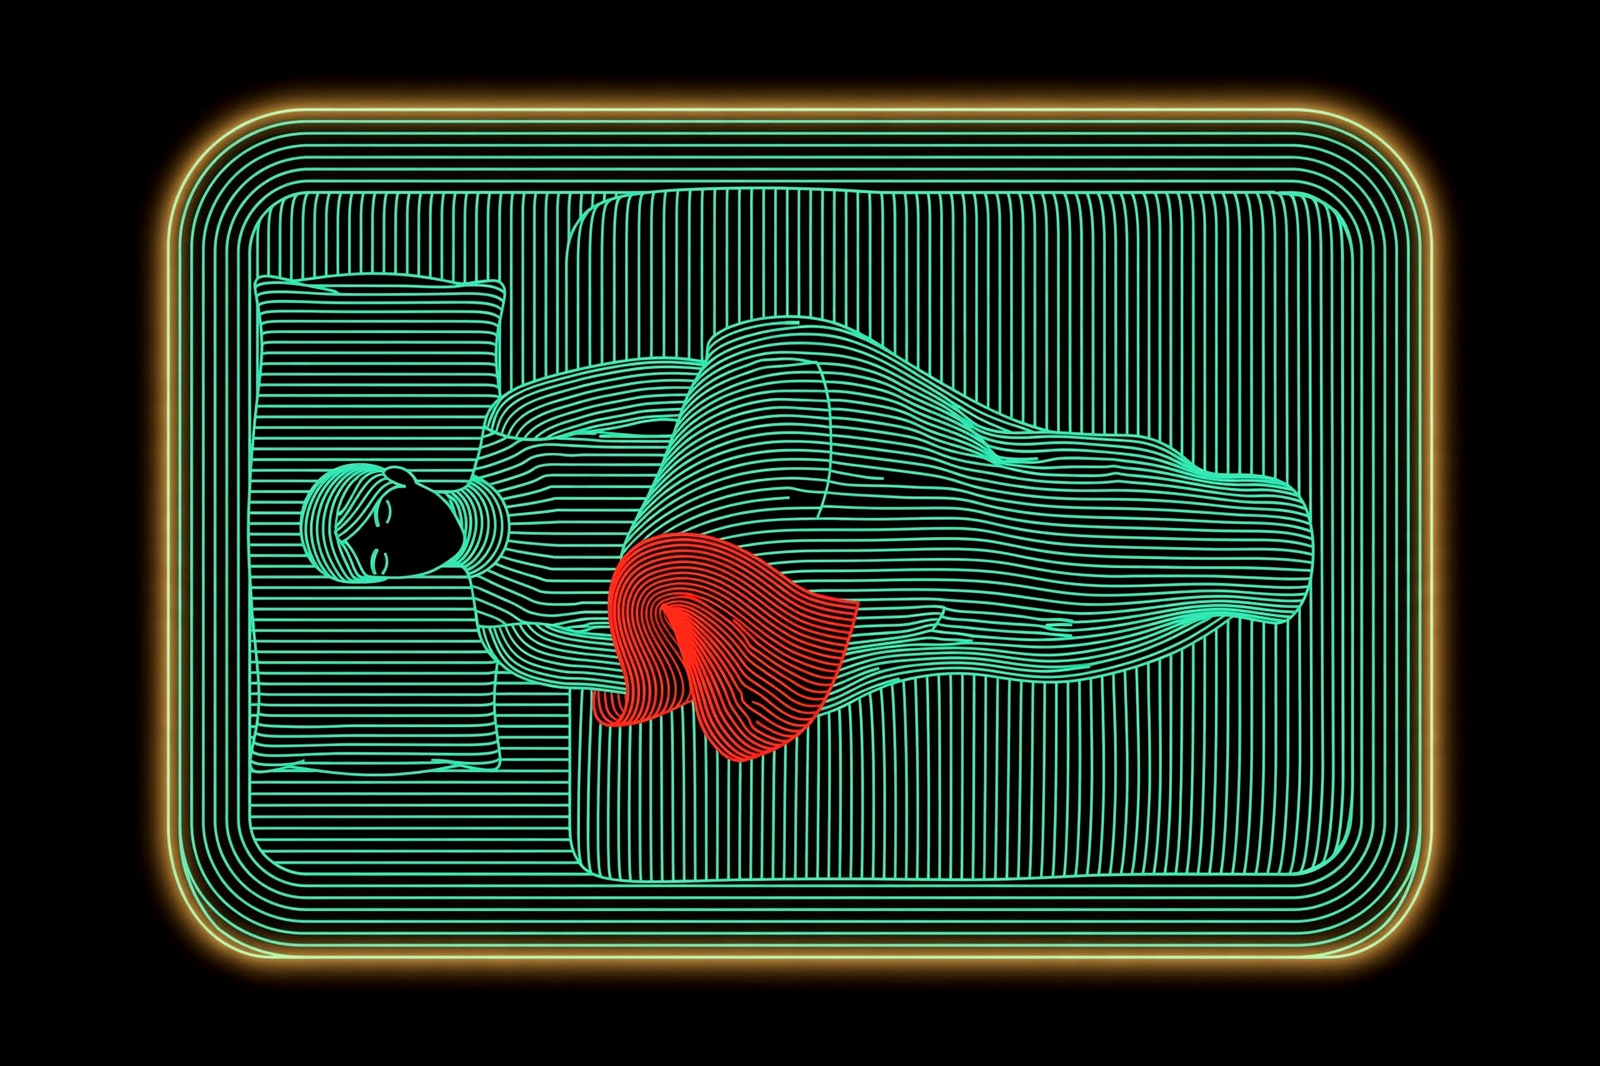
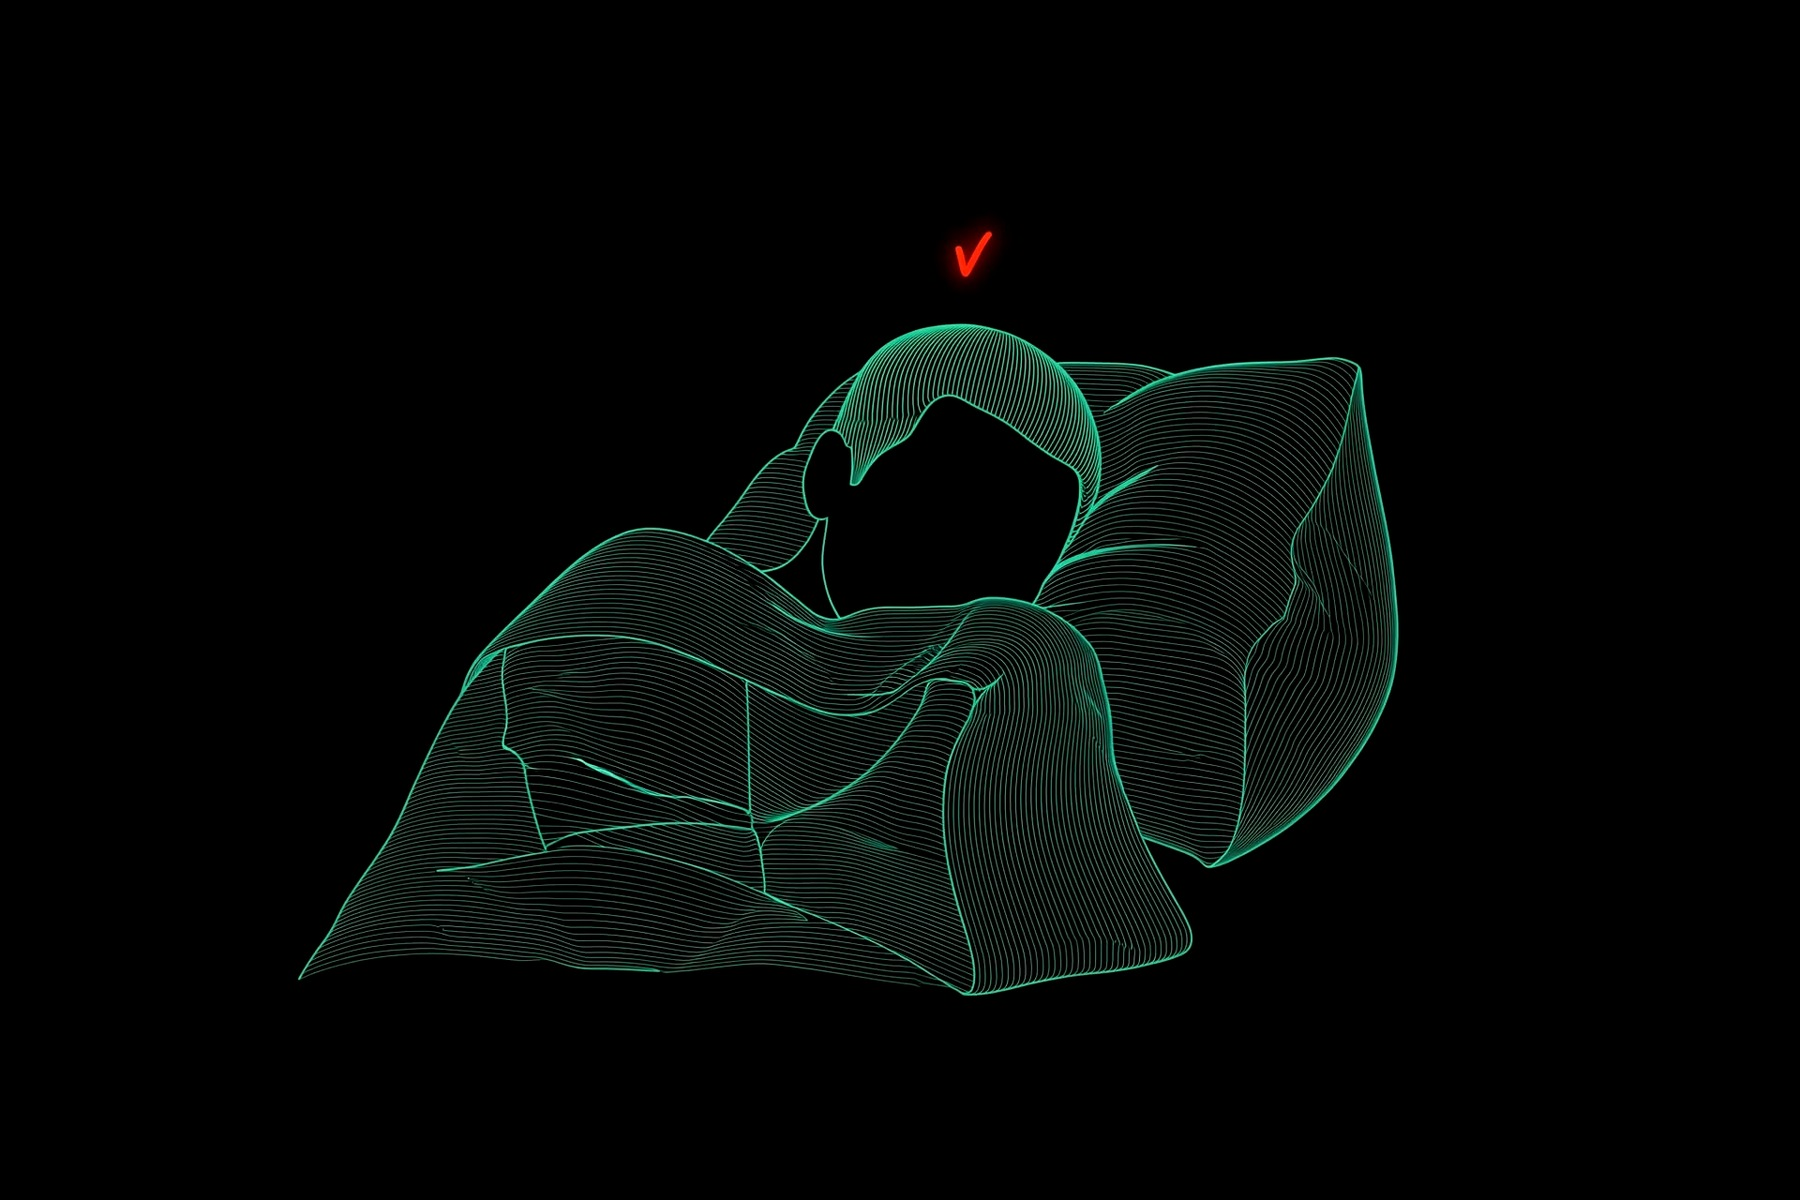
Dreams reel v2: dreamer figure in every world, persistent title, silent animatic
Claude-Session: https://claude.ai/code/session_01CvwsJjwBDbHwT6fzsaVftT

diff --git a/tools/tickle/three/scene10.js b/tools/tickle/three/scene10.js
@@ -1,0 +1,116 @@
+// "Why do dreams feel real" (25 s, 9:16). One continuous dive down a tunnel of frames; each world is a Meta contour-art sprite on the axis.
+// Grammar (Format B): teal contour = the world, red = the dream signal only (portal glow, nodes, heart core, crest, cubes, pupil); camera flies THROUGH each world into the next (match-move on its centre).
+import * as THREE from 'three';
+const QP = new URLSearchParams(location.search); const W = +(QP.get('w') || 1080), H = +(QP.get('h') || 1920), DUR = 25;
+const clamp = (x, a = 0, b = 1) => Math.min(b, Math.max(a, x)), sm = x => { x = clamp(x); return x * x * (3 - 2 * x); }, lerp = (a, b, t) => a + (b - a) * t;
+const ease = x => { x = clamp(x); return x < .5 ? 4 * x * x * x : 1 - Math.pow(-2 * x + 2, 3) / 2; };
+const renderer = new THREE.WebGLRenderer({antialias: true, preserveDrawingBuffer: true}); renderer.setPixelRatio(1); renderer.setSize(W, H); renderer.setClearColor(0x02050a, 1);
+document.body.appendChild(renderer.domElement); document.body.style.width = W + 'px'; document.body.style.height = H + 'px';
+const scene = new THREE.Scene(), camera = new THREE.PerspectiveCamera(40, W / H, 0.1, 900);
+const META = await (await fetch('./assets/dreams/meta.json')).json();
+const TX = {};
+for (const k of Object.keys(META)) { const t = await new THREE.TextureLoader().loadAsync(`./assets/dreams/${k}.jpg`); t.colorSpace = THREE.NoColorSpace; t.anisotropy = 8; TX[k] = t; }
+const AX = 1.1; // axis height (world) so worlds sit above the caption band
+
+// ---------- sprite (colour-preserving, additive) ----------
+const spriteMat = tex => new THREE.ShaderMaterial({
+  uniforms: {uTex: {value: tex}, uOp: {value: 1}, uRed: {value: 1}, uTeal: {value: 1}, uFlash: {value: 0}},
+  transparent: true, depthWrite: false, depthTest: false, blending: THREE.AdditiveBlending, side: THREE.DoubleSide,
+  vertexShader: `varying vec2 vUv; void main(){ vUv=uv; gl_Position=projectionMatrix*modelViewMatrix*vec4(position,1.0); }`,
+  fragmentShader: `uniform sampler2D uTex; uniform float uOp,uRed,uTeal,uFlash; varying vec2 vUv;
+    void main(){ vec3 c=texture2D(uTex,vUv).rgb; float rm=clamp((c.r-0.55*c.g-0.04)*3.0,0.0,1.0);
+      c*=mix(uTeal,uRed,rm); vec2 e=min(vUv,1.0-vUv); float f=smoothstep(0.0,0.07,min(e.x,e.y));
+      gl_FragColor=vec4(c*f*uOp+vec3(uFlash),1.0); }`
+});
+const mkSprite = (k, w) => { const [pw, ph] = META[k], m = new THREE.Mesh(new THREE.PlaneGeometry(w, w * ph / pw), spriteMat(TX[k])); m.frustumCulled = false; m.renderOrder = 3; scene.add(m); return m; };
+const setSp = (m, x, y, z, o = {}) => { m.position.set(x, y + AX, z); m.rotation.z = o.rz || 0; m.scale.setScalar(o.s || 1); const u = m.material.uniforms; u.uOp.value = o.op ?? 1; u.uRed.value = o.red ?? 1; u.uTeal.value = o.teal ?? 1; m.visible = u.uOp.value > 0.004; };
+
+// ---------- stops (v2: the dreamer is in every world) ----------
+const S = 34, R = 24, TR = 0.6, CREEP = 0.9;
+const HS = [{k: 'sleeper', w: 8.6, A: 0}, {k: 'bedfall', w: 8.2, A: 1.2}, {k: 'brain', w: 10.4, A: 2.5}, {k: 'island', w: 6.9, A: 4.4}, {k: 'stairs', w: 20, A: 6.0}, {k: 'moon', w: 20, A: 7.8},
+  {k: 'heart', w: 8.6, A: 9.4}, {k: 'boat', w: 7.4, A: 11.3}, {k: 'corridor', w: 8.2, A: 13.4}, {k: 'collage', w: 8.2, A: 15.0}, {k: 'whalecity', w: 8.2, A: 16.6}, {k: 'web', w: 8.2, A: 18.2},
+  {k: 'heaven', w: 6.9, A: 19.8}, {k: 'eye', w: 8.6, A: 21.6}, {k: 'bed', w: 9.6, A: 23.4}];
+const N = HS.length; HS.forEach((h, i) => { h.z = -S * i; h.sp = mkSprite(h.k, h.w); });
+function camZ(t) {
+  for (let i = 0; i < N; i++) {
+    const A = HS[i].A, nxt = i < N - 1 ? HS[i + 1].A : 1e9, D = nxt - TR;
+    if (t < nxt) { const zi = HS[i].z, cr = i === N - 1 ? 0 : CREEP; if (t < D || i === N - 1) return zi + R - cr * (t - A);
+      const e0 = zi + R - cr * (D - A), e1 = HS[i + 1].z + R; return lerp(e0, e1, ease((t - D) / TR)); }
+  } return HS[N - 1].z + R;
+}
+function trans(t) { for (let i = 0; i < N - 1; i++) { const D = HS[i + 1].A - TR; if (t >= D && t < HS[i + 1].A) return {u: (t - D) / TR, i}; } return {u: -1, i: -1}; }
+
+// ---------- tunnel of frames ----------
+const NF = 150, fr = [], fp = [], faArr = []; const corners = [[-1, -1], [1, -1], [1, 1], [-1, 1]];
+for (let i = 0; i < NF; i++) {
+  const z = 40 - i * 4.2, size = 5.2 + 3.2 * ((i * 0.61803) % 1), red = i % 9 === 4 ? 1 : 0, ang = i * 0.21;
+  for (let c = 0; c < 3; c++) { const s = size * (1 - c * 0.035); for (let e = 0; e < 4; e++) { const a = corners[e], b = corners[(e + 1) % 4]; fp.push(a[0] * s, a[1] * s, 0, b[0] * s, b[1] * s, 0); for (let q = 0; q < 2; q++) faArr.push(z, red, ang, 1 - c * 0.3); } }
+}
+const fg = new THREE.BufferGeometry(); fg.setAttribute('position', new THREE.Float32BufferAttribute(fp, 3)); fg.setAttribute('aF', new THREE.Float32BufferAttribute(faArr, 4));
+const fmat = new THREE.ShaderMaterial({uniforms: {uCamZ: {value: 0}, uTime: {value: 0}, uAmp: {value: 1}, uRedAmp: {value: 1}}, transparent: true, depthWrite: false, depthTest: false, blending: THREE.AdditiveBlending,
+  vertexShader: `attribute vec4 aF; uniform float uCamZ,uTime; varying float vA; varying float vR;
+    void main(){ float a=aF.z+aF.x*0.045+uTime*0.10; mat2 m=mat2(cos(a),sin(a),-sin(a),cos(a)); vec2 p=m*position.xy; float d=uCamZ-aF.x;
+      vA=smoothstep(3.0,12.0,d)*(1.0-smoothstep(18.0,60.0,d))*aF.w*0.6; vR=aF.y; gl_Position=projectionMatrix*viewMatrix*vec4(p.x,p.y+${AX.toFixed(2)},aF.x,1.0); }`,
+  fragmentShader: `uniform float uAmp,uRedAmp; varying float vA; varying float vR; void main(){ vec3 c=mix(vec3(0.10,0.80,0.68)*0.55,vec3(1.0,0.16,0.12)*0.8*uRedAmp,vR); gl_FragColor=vec4(c*vA*uAmp,1.0); }`});
+const frames = new THREE.LineSegments(fg, fmat); frames.frustumCulled = false; frames.renderOrder = 1; scene.add(frames);
+
+// ---------- speed streaks + dust ----------
+const NS = 560, sp = [], sa = []; let seed = 7; const rnd = () => (seed = (seed * 16807) % 2147483647) / 2147483647;
+for (let i = 0; i < NS; i++) { const th = rnd() * 6.283, r = 2.2 + rnd() * 12, z = 40 - rnd() * 560; for (let e = 0; e < 2; e++) { sp.push(Math.cos(th) * r, Math.sin(th) * r, z); sa.push(e, rnd()); } }
+const sg = new THREE.BufferGeometry(); sg.setAttribute('position', new THREE.Float32BufferAttribute(sp, 3)); sg.setAttribute('aS', new THREE.Float32BufferAttribute(sa, 2));
+const smat = new THREE.ShaderMaterial({uniforms: {uCamZ: {value: 0}, uSpeed: {value: 0}}, transparent: true, depthWrite: false, depthTest: false, blending: THREE.AdditiveBlending,
+  vertexShader: `attribute vec2 aS; uniform float uCamZ,uSpeed; varying float vA; void main(){ vec3 p=position; p.y+=${AX.toFixed(2)}; p.z+=aS.x*(0.8+16.0*uSpeed); float d=uCamZ-p.z; vA=smoothstep(1.0,6.0,d)*(1.0-smoothstep(20.0,70.0,d))*(0.10+0.9*uSpeed)*(0.5+0.5*aS.y)*(1.0-0.65*aS.x); gl_Position=projectionMatrix*viewMatrix*vec4(p,1.0); }`,
+  fragmentShader: `varying float vA; void main(){ gl_FragColor=vec4(vec3(0.35,0.95,0.85)*vA,1.0); }`});
+const streaks = new THREE.LineSegments(sg, smat); streaks.frustumCulled = false; streaks.renderOrder = 2; scene.add(streaks);
+
+// ---------- extras ----------
+const redLine = o => new THREE.LineBasicMaterial({color: new THREE.Color(1.0, 0.2, 0.14), transparent: true, opacity: o, blending: THREE.AdditiveBlending, depthTest: false, depthWrite: false});
+const circPts = Array.from({length: 129}, (_, i) => new THREE.Vector3(Math.cos(i / 128 * 6.2832), Math.sin(i / 128 * 6.2832), 0));
+const rings = Array.from({length: 4}, () => { const m = new THREE.LineLoop(new THREE.BufferGeometry().setFromPoints(circPts), redLine(0)); m.renderOrder = 4; m.frustumCulled = false; scene.add(m); return m; });
+const faller = mkSprite('faller', 4.2), waveBack = mkSprite('wave', 11.4);
+
+// ---------- captions (title stays up the whole time) ----------
+const CAPS = [[0.1, 1.2, 'THIS IS A <em>DREAM.</em>'], [1.15, 2.4, 'AND IT FEELS <em>REAL.</em>'], [2.55, 4.3, 'SAME BRAIN.<br>DIFFERENT <em>STATE.</em>'], [4.5, 7.7, 'THE REALITY CHECK<br>IS <em>SWITCHED OFF.</em>'],
+  [7.9, 9.3, 'IMPOSSIBLE PLACES<br>FEEL <em>BELIEVABLE.</em>'], [9.5, 13.3, 'THE EMOTIONS<br>ARE <em>REAL.</em>'], [13.5, 18.1, 'BUILT FROM<br><em>YOUR MEMORIES.</em>'], [18.3, 21.5, 'YOUR BRAIN <em>WEAVES</em><br>IT ALL IN REAL TIME.'],
+  [21.7, 23.3, 'NOT REAL.<br>BUT <em>FELT REAL.</em>'], [23.5, 25.0, 'YOU WAKE UP.<br>IT ALL <em>FELT REAL.</em>']];
+const elCap = document.getElementById('cap'), elFlash = document.getElementById('flash'), elBar = document.getElementById('bar'), elTitle = document.getElementById('title');
+const beat = p => Math.exp(-p * 6.0);
+window.renderAt = t => {
+  t = Math.min(Math.max(t, 0), DUR); const cz = camZ(t), tr = trans(t), bump = tr.u >= 0 ? Math.sin(Math.PI * tr.u) : 0, W0 = 2 * Math.PI / DUR;
+  camera.fov = 40 + 11 * bump; camera.updateProjectionMatrix();
+  camera.position.set(0.42 * Math.sin(W0 * 2 * t), 0.22 * Math.cos(W0 * 3 * t), cz);
+  camera.up.set(0, 1, 0); camera.lookAt(0, 0, cz - 10); camera.rotateZ(0.025 * Math.sin(W0 * 2 * t + 1) + (tr.i >= 0 ? (tr.i % 2 ? 1 : -1) * 0.5 * bump : 0));
+  fmat.uniforms.uCamZ.value = cz; fmat.uniforms.uTime.value = t; smat.uniforms.uCamZ.value = cz; smat.uniforms.uSpeed.value = bump;
+  let flash = 0; const at = k => HS.findIndex(h => h.k === k);
+  waveBack.visible = faller.visible = false;
+  HS.forEach((h, i) => {
+    const d = cz - h.z, lt = t - h.A; const op = sm((d - 1.5) / 5.5) * (1 - sm((d - 36) / 16)); const o = {op, rz: 0, s: 1, red: 1, teal: 1}; let x = 0, y = 0; const pulse = (f, p = 0) => 0.5 + 0.5 * Math.sin(lt * f + p);
+    switch (h.k) {
+      case 'sleeper': { const z = sm(lt / 1.1); o.s = 1 + 0.45 * z; y = -1.1 * z; o.red = 1.2 + 2.4 * pulse(9); o.rz = 0.01 * Math.sin(W0 * 3 * t); break; }
+      case 'bedfall': o.rz = 0.03 * Math.sin(lt * 2.5); o.red = 1.3 + 1.6 * pulse(8); o.s = 1 + 0.05 * lt; break;
+      case 'brain': o.red = 1.0 + 1.4 * pulse(7, 1); o.s = 1 + 0.03 * lt; break;
+      case 'island': o.red = 1.0 + 2.2 * pulse(10); y = 0.5 * lt; o.rz = 0.02 * Math.sin(lt * 9); break;
+      case 'stairs': x = lerp(4.0, -4.4, ease(lt / 1.7)); o.red = 1 + 1.6 * pulse(6); break;
+      case 'moon': x = lerp(4.2, -1.4, ease(lt / 1.7)); o.red = 0.85 + 0.35 * pulse(5); break;
+      case 'heart': { const p = (lt * 1.9) % 1; o.s = 1 + 0.06 * beat(p); o.red = 1.0 + 2.2 * beat(p); break; }
+      case 'boat': { y = -2.0 + 0.25 * Math.sin(lt * 3.2); o.rz = 0.05 * Math.sin(lt * 2.6); o.red = 1.3 + 1.2 * pulse(7); break; }
+      case 'corridor': o.s = 1 + 0.04 * lt; o.red = 1.2 + 1.4 * pulse(6); break;
+      case 'collage': o.rz = 0.025 * lt; o.s = 1 + 0.03 * lt; o.red = 1.2 + 1.2 * pulse(6); break;
+      case 'whalecity': o.s = 1 + 0.045 * lt; x = -0.15 * lt; o.red = 1.3 + 1.2 * pulse(6); break;
+      case 'web': o.s = 1 + 0.04 * lt; o.rz = 0.02 * Math.sin(lt * 2); o.red = 1.0 + 1.6 * pulse(8); break;
+      case 'heaven': o.s = 1 + 0.04 * lt; o.red = 1.0 + 1.0 * pulse(6); break;
+      case 'eye': o.s = 1 + 0.04 * lt; o.red = 1.0 + 1.5 * pulse(7); break;
+      case 'bed': { o.s = 1 + 0.012 * Math.sin(W0 * 9 * t); o.red = 1.2 + 0.5 * Math.sin(W0 * 8 * t); const w = sm((t - 24.1) / 0.1) * (1 - sm((t - 24.25) / 0.5)); flash = Math.max(flash, 0.12 * w); break; }
+    }
+    setSp(h.sp, x, y, h.z, o); h.op = op; h.lt = lt;
+    if (h.k === 'boat') { setSp(waveBack, 0, lerp(-6.2, 0.1, sm(lt / 1.6)) , h.z - 0.6, {op: op * 0.95, red: 1.1 + 1.6 * beat((t * 1.9) % 1), s: 1}); waveBack.visible = op > 0.004; }
+    if (h.k === 'heart') { setSp(faller, 0, -0.3, h.z + 0.4, {op: op * 0.85, rz: -0.6 + 0.25 * Math.sin(lt * 2), s: 0.55 + 0.05 * Math.sin(lt * 3), red: 1.6}); faller.visible = op > 0.004; }
+  });
+  { const hh = HS[at('heart')], ww = HS[at('boat')], on = Math.max(hh.op, ww.op * 0.8), zb = hh.op >= ww.op ? hh.z : ww.z; rings.forEach((r, n) => { const p = ((t * 1.9) + n * 0.25) % 1; r.position.set(0, AX - 0.2, zb + 0.5); r.scale.setScalar(1.0 + p * 7.5); r.material.opacity = 0.75 * (1 - p) * on; r.visible = r.material.opacity > 0.01; }); }
+  renderer.render(scene, camera);
+  elFlash.style.opacity = flash; elBar.style.width = (100 * t / DUR).toFixed(2) + '%';
+  const tw = t > 0.9 && t < 2.2 ? 1 : 0, tr2 = t > 21.4 && t < 24.9 ? 1 : 0; elTitle.innerHTML = 'WHY DO <em class="' + (tw ? 'on' : '') + '">DREAMS</em> FEEL <em>REAL?</em>';
+  let cs = ''; CAPS.forEach(([a, b, txt]) => { const k = sm((t - a) / 0.2) * (1 - sm((t - (b - 0.2)) / 0.2)); if (k > 0.01) cs += `<div style="opacity:${k.toFixed(3)};transform:translateY(${((1 - k) * 12).toFixed(1)}px)">${txt}</div>`; });
+  elCap.innerHTML = cs;
+};
+window.ready = true; window.renderAt(0);

diff --git a/tools/tickle/three/index10.html b/tools/tickle/three/index10.html
@@ -1,0 +1,24 @@
+<!doctype html>
+<html><head><meta charset="utf-8"><title>dreams v2</title>
+<style>
+*{margin:0;padding:0;box-sizing:border-box}
+html,body{background:#02050a;overflow:hidden}
+canvas{position:absolute;left:0;top:0}
+#title,#cap{z-index:5;position:absolute;left:0;width:100%;text-align:center;font-family:'Liberation Sans Narrow','DejaVu Sans Condensed',sans-serif;font-weight:700;color:#f1ead8;text-transform:uppercase;text-shadow:0 4px 24px #000}
+#title{top:104px;font-size:66px;line-height:1;letter-spacing:2px;white-space:nowrap}
+#title em.on{color:#ff3a2e}
+#title em:last-child{color:#ff3a2e}
+#cap{top:1500px;font-size:78px;line-height:1.06;letter-spacing:3px;height:260px}
+#cap div{position:absolute;left:0;width:100%;padding:0 50px}
+em{font-style:normal;color:#ff3a2e}
+#brand{z-index:5;position:absolute;left:0;width:100%;text-align:center;top:40px;font-family:'Liberation Sans Narrow',sans-serif;font-weight:700;font-size:24px;letter-spacing:12px;color:#e8e4d0;opacity:.7}
+#brand em{color:#d63e30}
+#barwrap{z-index:5;position:absolute;left:60px;width:960px;top:196px;height:3px;background:rgba(232,228,208,.18)}
+#bar{height:3px;width:0;background:#ff3a2e;box-shadow:0 0 10px #ff3a2e}
+#flash{z-index:6;position:absolute;inset:0;background:#e8e4d0;opacity:0;pointer-events:none}
+</style>
+<script type="importmap">{"imports":{"three":"./node_modules/three/build/three.module.js"}}</script>
+</head><body>
+<div id="brand">SL<em>O</em>W LIGHT</div><div id="title"></div><div id="barwrap"><div id="bar"></div></div><div id="cap"></div><div id="flash"></div>
+<script type="module" src="scene10.js"></script>
+</body></html>

diff --git a/tools/tickle/three/render10.js b/tools/tickle/three/render10.js
@@ -1,0 +1,16 @@
+// usage: node render2.js <outdir> <fps> <t0> <t1> [worker workers]   (needs python3 -m http.server 8792 in tools/tickle)
+const {chromium}=require('/opt/node-tools/node_modules/playwright-core');
+const fs=require('fs');
+(async()=>{
+  const [out,fps,t0,t1,wi,wn]=[process.argv[2],+process.argv[3],+process.argv[4],+process.argv[5],+(process.argv[6]||0),+(process.argv[7]||1)];
+  fs.mkdirSync(out,{recursive:true});
+  const b=await chromium.launch({executablePath:'/opt/pw-browsers/chromium-1194/chrome-linux/chrome',args:['--no-sandbox','--use-angle=swiftshader','--enable-unsafe-swiftshader','--ignore-gpu-blocklist','--use-gl=angle']});
+  const p=await b.newPage({viewport:{width:+(process.env.W||1080),height:+(process.env.H||1920)}});
+  p.on('pageerror',e=>console.log('[err]',e.message.slice(0,400)));
+  p.on('console',m=>{if(m.type()==='error')console.log('[console]',m.text().slice(0,300))});
+  await p.goto('http://localhost:8792/three/index10.html?w='+(process.env.W||1080)+'&h='+(process.env.H||1920)+'');
+  await p.waitForFunction('window.ready===true',{timeout:120000});
+  const f0=Math.round(t0*fps),f1=Math.round(t1*fps),tt=Date.now();
+  for(let f=f0+wi;f<=f1;f+=wn){await p.evaluate(t=>window.renderAt(t),f/fps);await p.screenshot({path:`${out}/f${String(f).padStart(5,'0')}.jpg`,type:'jpeg',quality:93});console.log('frame',f,((Date.now()-tt)/1000).toFixed(1)+'s');}
+  await b.close();
+})();

diff --git a/tools/tickle/three/prev10.js b/tools/tickle/three/prev10.js
@@ -1,0 +1,7 @@
+const {chromium}=require('/opt/node-tools/node_modules/playwright-core');
+(async()=>{const W=+(process.env.W||540),H=+(process.env.H||960),out=process.argv[2],ts=process.argv.slice(3).map(Number);
+const b=await chromium.launch({executablePath:'/opt/pw-browsers/chromium-1194/chrome-linux/chrome',args:['--no-sandbox','--use-angle=swiftshader','--enable-unsafe-swiftshader','--ignore-gpu-blocklist','--use-gl=angle']});
+const p=await b.newPage({viewport:{width:W,height:H}});p.on('pageerror',e=>console.log('[err]',e.message.slice(0,400)));p.on('console',m=>{if(m.type()==='error')console.log('[c]',m.text().slice(0,300))});
+await p.goto('http://localhost:8792/three/index10.html?w='+W+'&h='+H);await p.waitForFunction('window.ready===true',{timeout:120000});
+for(const t of ts){await p.evaluate(t=>window.renderAt(t),t);await p.screenshot({path:`${out}/p_${t.toFixed(2)}.jpg`,type:'jpeg',quality:85});}
+await b.close();})();

diff --git a/tools/tickle/three/prep_dreams_v2.py b/tools/tickle/three/prep_dreams_v2.py
@@ -1,0 +1,25 @@
+#!/usr/bin/env python3
+"""Prep the Meta v2 (dreamer figure) frames: crop baked labels, crush the navy background so additive blending works, write assets/dreams/<key>.jpg + meta.json.
+usage: python3 prep_dreams_v2.py <v2_dir>   (files named image_20261015_HHMMSS[_n].jpg as downloaded from Drive)"""
+import sys, json, numpy as np
+from PIL import Image
+src = sys.argv[1]
+# key -> (file, crop fractions l,t,r,b)
+M = {
+    "sleeper": ("144736", None), "bedfall": ("150303", None), "brain": ("145803", None), "island": ("145634", None),
+    "stairs": ("150037", None), "moon": ("150038", None), "boat": ("144738_1", None), "corridor": ("150300", None),
+    "collage": ("150315", (0.05, 0.05, 0.95, 0.96)), "whalecity": ("150542", None), "web": ("150256", (0, 0, 1, 0.93)),
+    "heaven": ("145928", None), "eye": ("145844", None), "bed": ("144811", None), "faller": ("144737", None),
+}
+try: meta = json.load(open("assets/dreams/meta.json"))
+except Exception: meta = {}
+for k, (f, crop) in M.items():
+    im = Image.open(f"{src}/image_20261015_{f}.jpg").convert("RGB")
+    if crop: w, h = im.size; im = im.crop((int(crop[0] * w), int(crop[1] * h), int(crop[2] * w), int(crop[3] * h)))
+    a = np.asarray(im).astype(float); h, w, _ = a.shape
+    b = np.concatenate([a[:8].reshape(-1, 3), a[-8:].reshape(-1, 3), a[:, :8].reshape(-1, 3), a[:, -8:].reshape(-1, 3)])
+    bg = np.median(b, 0); o = np.clip((a - bg * 1.3 - 4) * 1.12, 0, 255).astype(np.uint8)
+    img = Image.fromarray(o); s = 1800 / max(w, h)
+    if s < 1: img = img.resize((int(w * s), int(h * s)), Image.LANCZOS)
+    img.save(f"assets/dreams/{k}.jpg", quality=93); meta[k] = list(img.size); print(k, img.size)
+json.dump(meta, open("assets/dreams/meta.json", "w"))
